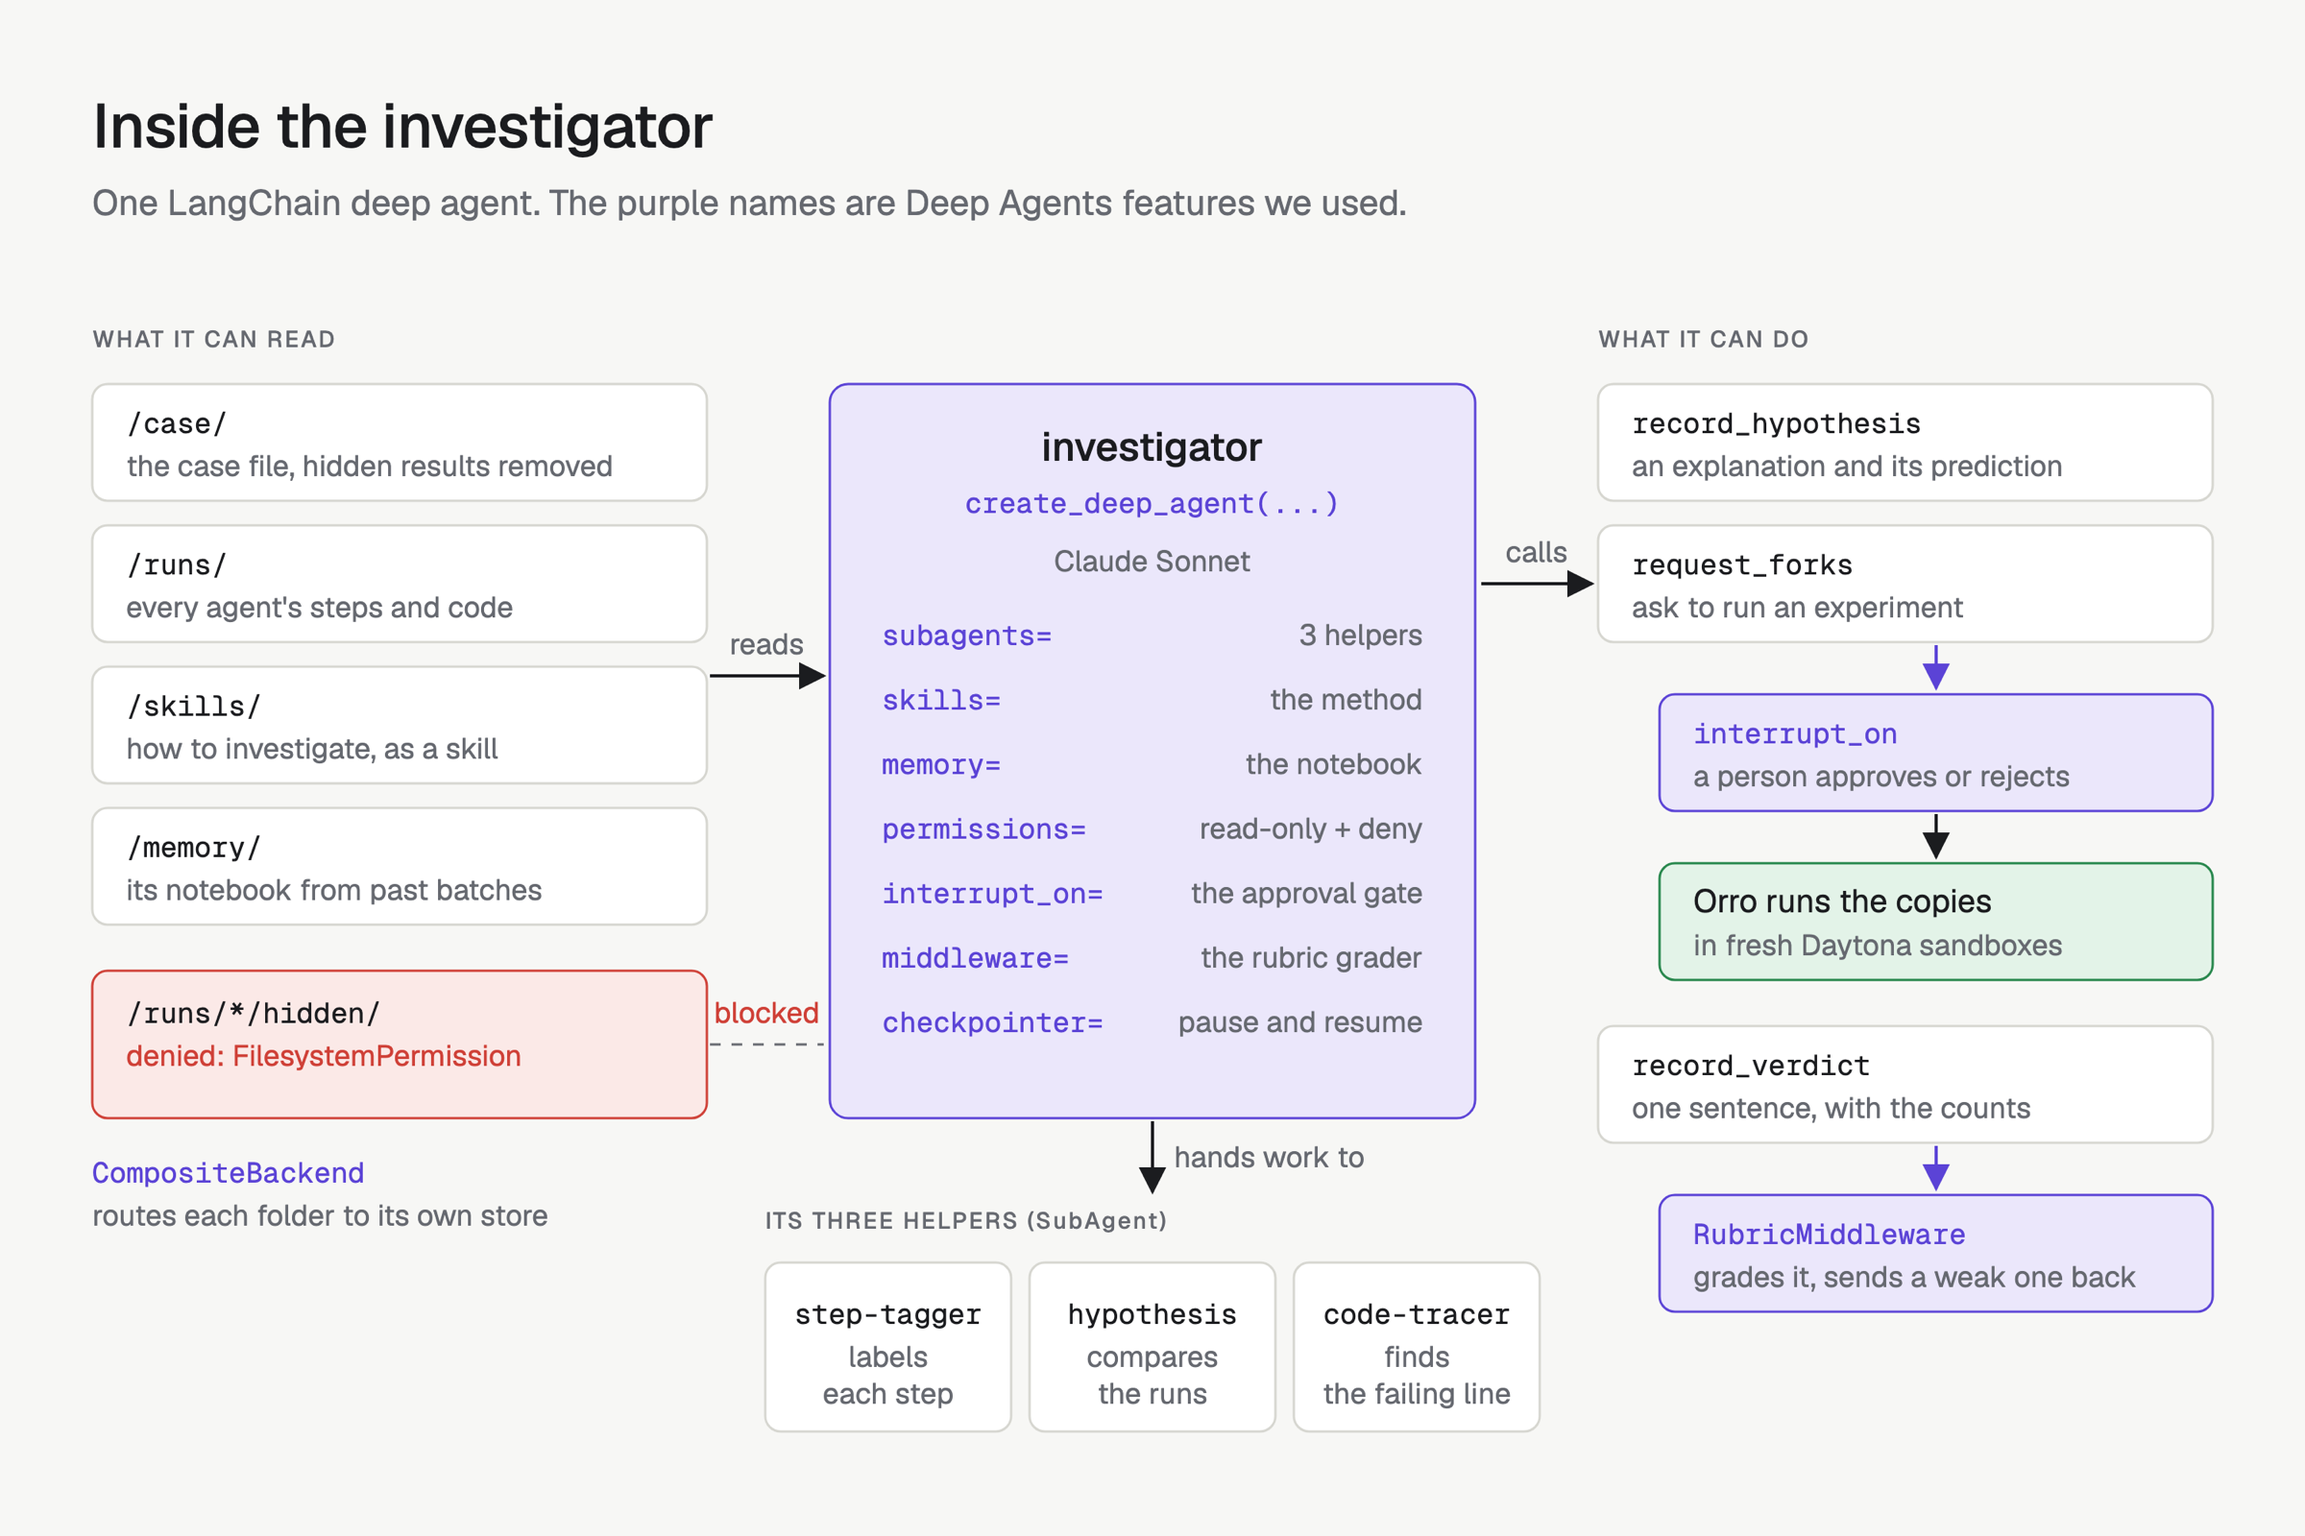
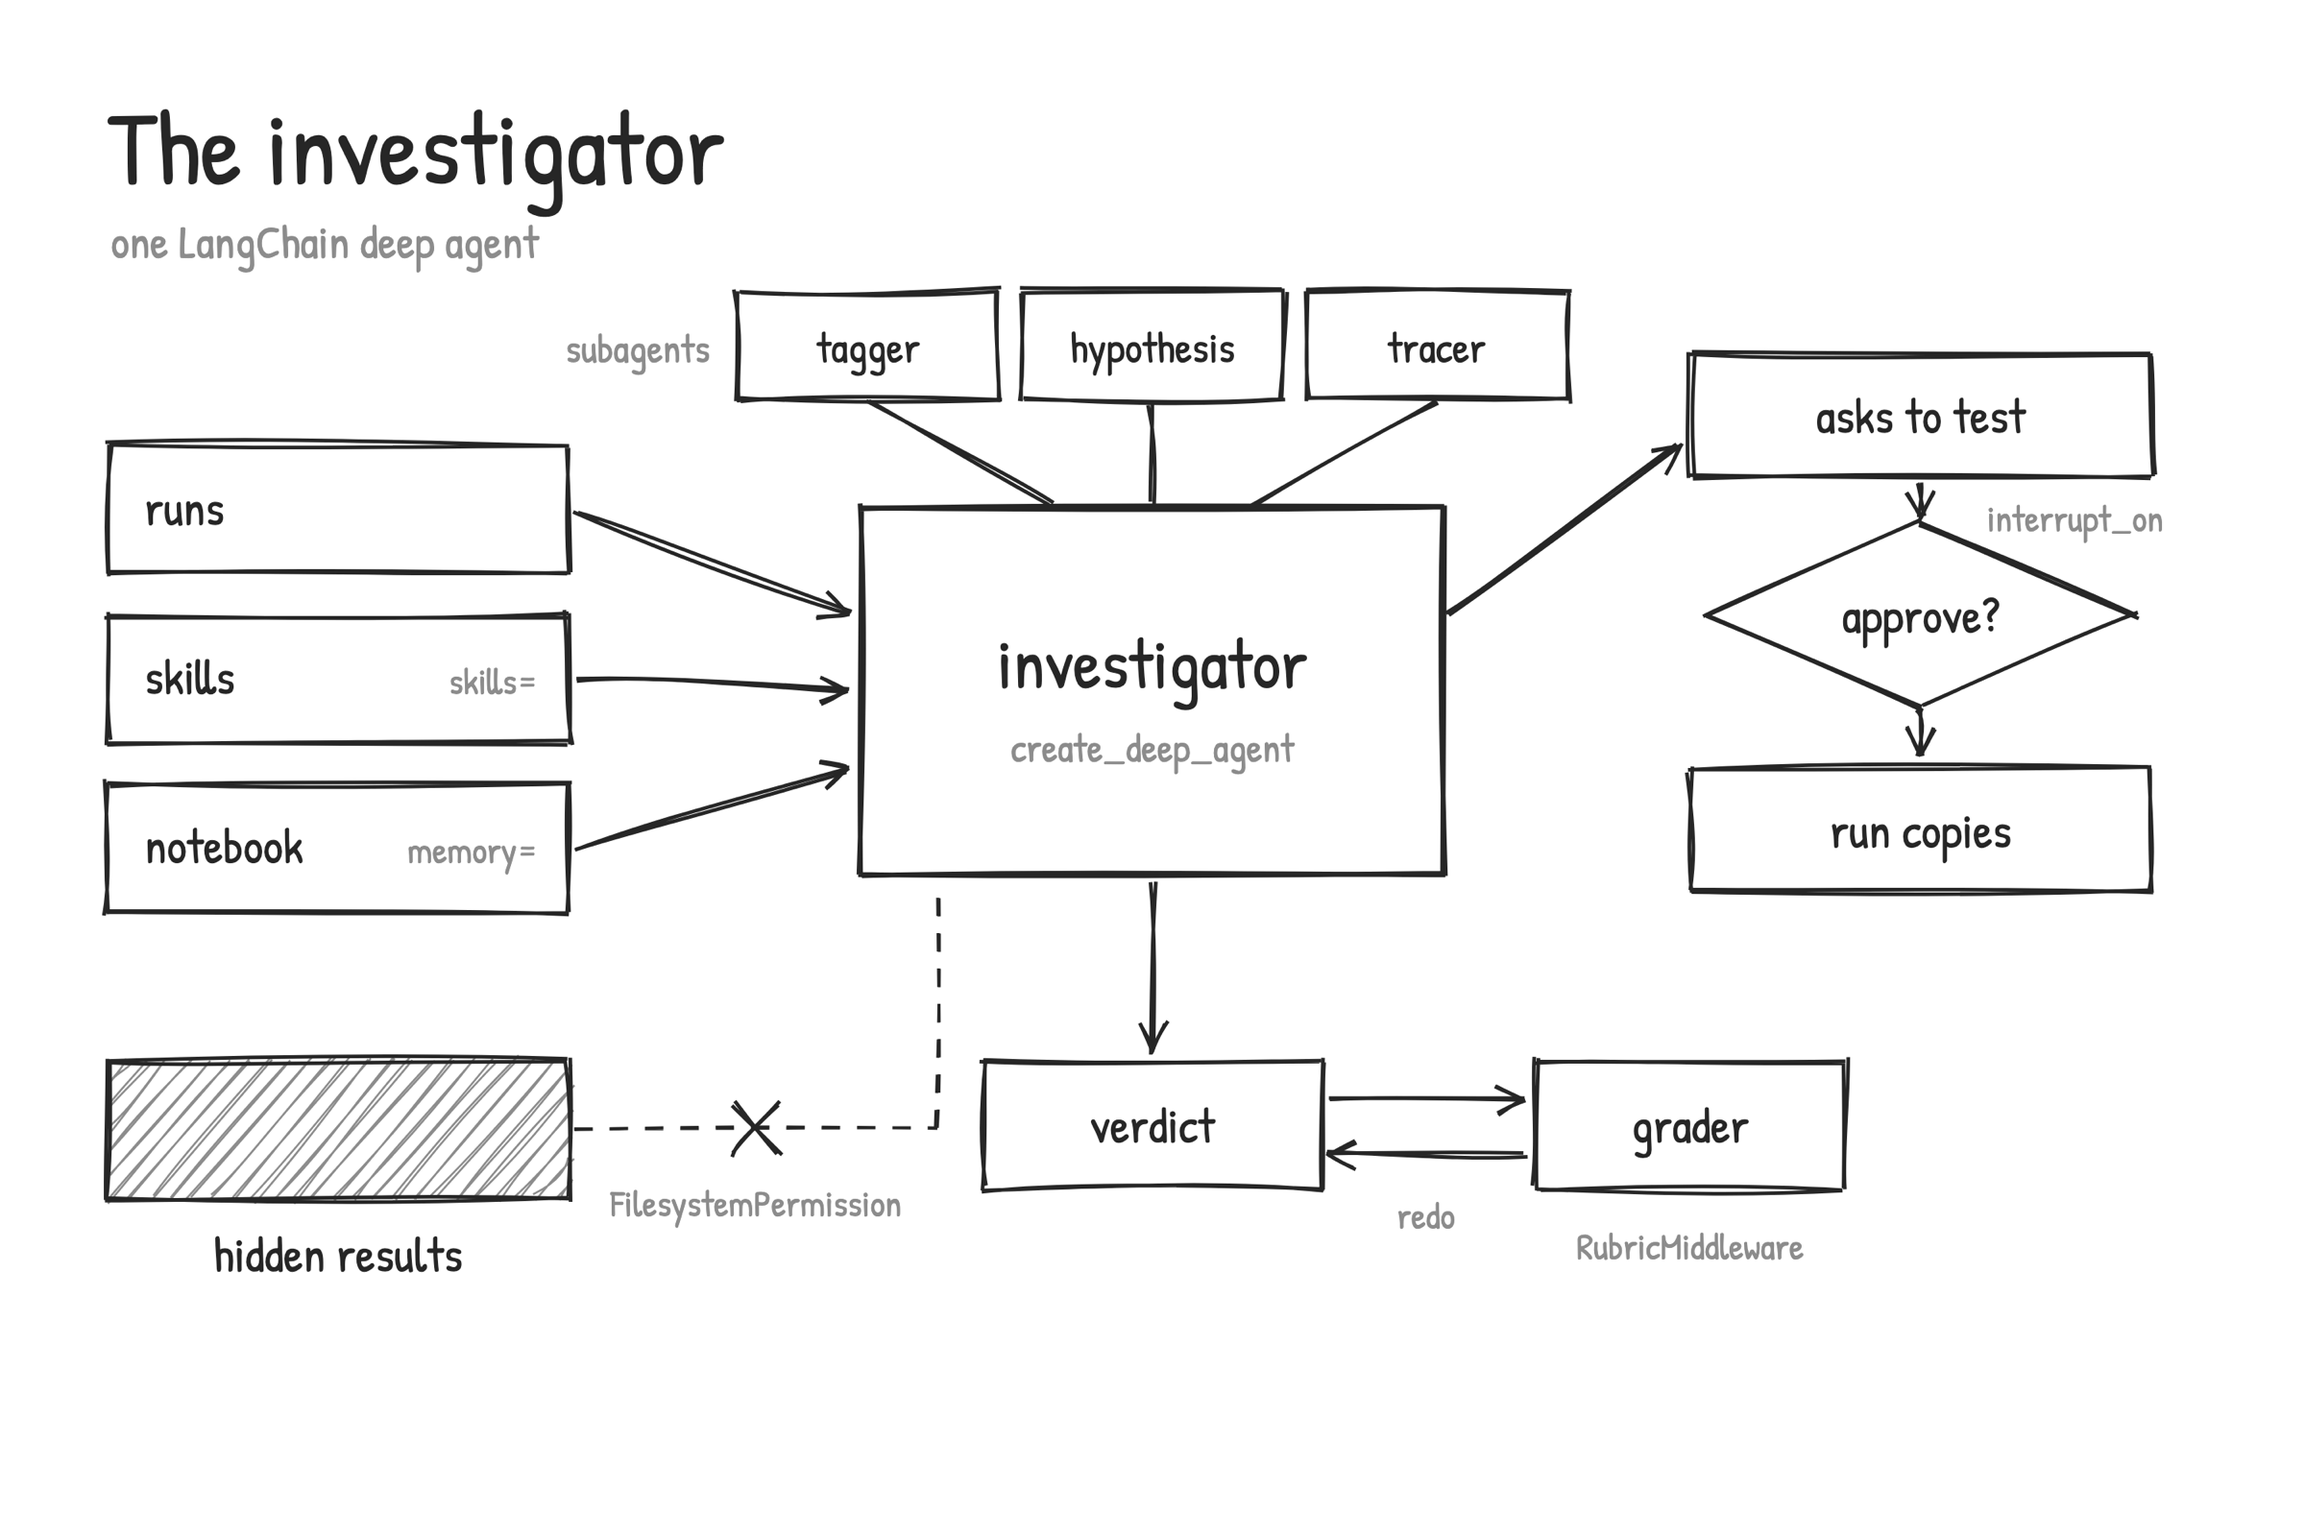
Devpost figures redrawn as black and white pencil sketches, with their source
The four gallery figures and the thumbnail are now graphite line on white: square corners, hatching for emphasis, one
to three words per shape and tool names small in grey. docs/devpost/src holds the rough.js drawing script and the
page builder that produced them.

diff --git a/docs/devpost/src/sketch.js b/docs/devpost/src/sketch.js
@@ -1,0 +1,186 @@
+// Four pencil-sketch figures for Orro, drawn with rough.js. Black and white only, square corners, few words.
+const INK = "#262626", SOFT = "#8c8c8c", NS = "http://www.w3.org/2000/svg";
+
+function pen(svg, seed0) {
+  const rc = rough.svg(svg);
+  let seed = seed0;
+  const o = (x = {}) => Object.assign({ roughness: 1.5, bowing: 1.3, stroke: INK, strokeWidth: 2.4, seed: seed++ }, x);
+  const add = (n) => (svg.appendChild(n), n);
+  const p = {
+    box: (x, y, w, h, x2 = {}) => add(rc.rectangle(x, y, w, h, o(x2))),
+    shade: (x, y, w, h) => add(rc.rectangle(x, y, w, h, o({ fill: SOFT, fillStyle: "hachure", hachureGap: 10, fillWeight: 1.3 }))),
+    line: (a, b, c, d, x2 = {}) => add(rc.line(a, b, c, d, o(x2))),
+    dash: (a, b, c, d) => add(rc.line(a, b, c, d, o({ strokeLineDash: [12, 11], strokeWidth: 2, roughness: 0.9 }))),
+    arrow(a, b, c, d, x2 = {}) {
+      p.line(a, b, c, d, x2);
+      const ang = Math.atan2(d - b, c - a), L = 20;
+      for (const s of [-1, 1]) {
+        const t = ang + Math.PI + s * 0.45;
+        p.line(c, d, c + L * Math.cos(t), d + L * Math.sin(t), Object.assign({ roughness: 0.8 }, x2));
+      }
+    },
+    diamond: (cx, cy, w, h) => add(rc.polygon([[cx, cy - h / 2], [cx + w / 2, cy], [cx, cy + h / 2], [cx - w / 2, cy]], o())),
+    circle: (cx, cy, d, x2 = {}) => add(rc.circle(cx, cy, d, o(x2))),
+    ellipse: (cx, cy, w, h, x2 = {}) => add(rc.ellipse(cx, cy, w, h, o(x2))),
+    dot: (cx, cy, d) => add(rc.circle(cx, cy, d, o({ fill: INK, fillStyle: "solid", roughness: 0.8 }))),
+    sq: (x, y, s) => add(rc.rectangle(x, y, s, s, o({ fill: INK, fillStyle: "hachure", hachureGap: 4, fillWeight: 1.8, roughness: 1 }))),
+    curve: (pts, x2 = {}) => add(rc.curve(pts, o(x2))),
+    cross(x, y, s) { p.line(x - s, y - s, x + s, y + s); p.line(x - s, y + s, x + s, y - s); },
+    tick(x, y, s) { p.line(x - s, y, x - s * 0.2, y + s * 0.8); p.line(x - s * 0.2, y + s * 0.8, x + s * 1.1, y - s); },
+    t(x, y, s, size = 34, anchor = "start", col = INK) {
+      const e = document.createElementNS(NS, "text");
+      e.setAttribute("x", x); e.setAttribute("y", y); e.setAttribute("font-size", size);
+      e.setAttribute("text-anchor", anchor); e.setAttribute("fill", col); e.textContent = s;
+      return add(e);
+    },
+  };
+  return p;
+}
+
+const FIGS = {
+  // 1. the pipeline: six shapes in a row, one shaded box for what stays hidden
+  pipeline(svg) {
+    const p = pen(svg, 11);
+    p.t(70, 120, "How Orro works", 68);
+    const xs = [60, 300, 540, 780, 1010, 1250], top = 300, w = 190, h = 170, mid = top + h / 2;
+    const labels = [["12 agents"], ["score", "each one"], ["investigator"], null, ["4 groups", "of copies"], ["verdict"]];
+    const notes = ["Deep Agents", "", "Deep Agents", "interrupt_on", "Daytona", "Fisher test"];
+    xs.forEach((x, i) => {
+      if (i === 3) { p.diamond(x + w / 2, mid, w + 30, h); p.t(x + w / 2, mid + 12, "approve?", 34, "middle"); }
+      else {
+        p.box(x, top, w, h);
+        const L = labels[i];
+        L.forEach((s, j) => p.t(x + w / 2, mid + 12 + (j - (L.length - 1) / 2) * 42, s, 34, "middle"));
+      }
+      if (notes[i]) p.t(x + w / 2, top + h + 48, notes[i], 26, "middle", SOFT);
+      if (i < 5) p.arrow(x + w + (i === 3 ? 20 : 8), mid, xs[i + 1] - (i === 2 ? 22 : 10), mid);
+    });
+    // hidden tests feed the score; the investigator cannot reach them
+    p.shade(300, 700, 190, 120);
+    p.t(395, 868, "hidden tests", 34, "middle");
+    p.arrow(395, 696, 395, top + h + 12);
+    p.dash(494, 760, 635, 760); p.dash(635, 760, 635, top + h + 60);
+    p.cross(635, 660, 16);
+    p.t(662, 672, "blocked", 30);
+  },
+
+  // 2. the investigator as one deep agent: what it reads, what it cannot, what it may do
+  agent(svg) {
+    const p = pen(svg, 101);
+    p.t(70, 120, "The investigator", 68);
+    p.t(72, 168, "one LangChain deep agent", 30, "start", SOFT);
+    // centre
+    p.box(560, 330, 380, 240, { strokeWidth: 3.2 });
+    p.t(750, 448, "investigator", 46, "middle");
+    p.t(750, 496, "create_deep_agent", 26, "middle", SOFT);
+    // helpers above
+    [["tagger", 480], ["hypothesis", 665], ["tracer", 850]].forEach(([s, x]) => {
+      p.box(x, 190, 170, 70); p.t(x + 85, 236, s, 28, "middle");
+      p.line(x + 85, 262, 750 + (x - 665) * 0.35, 328);
+    });
+    p.t(462, 236, "subagents", 26, "end", SOFT);
+    // reads
+    [["runs", "", 290], ["skills", "skills=", 400], ["notebook", "memory=", 510]].forEach(([s, n, y], i) => {
+      p.box(70, y, 300, 84);
+      p.t(94, y + 52, s, 32);
+      if (n) p.t(350, y + 52, n, 24, "end", SOFT);
+      p.arrow(374, y + 42, 552, 400 + i * 50);
+    });
+    // blocked
+    p.shade(70, 690, 300, 90);
+    p.t(220, 828, "hidden results", 32, "middle");
+    p.dash(374, 735, 610, 735); p.dash(610, 735, 610, 578);
+    p.cross(492, 735, 16);
+    p.t(492, 792, "FilesystemPermission", 24, "middle", SOFT);
+    // may do, with a person in the way
+    p.box(1100, 230, 300, 80); p.t(1250, 282, "asks to test", 32, "middle");
+    p.arrow(944, 400, 1094, 290);
+    p.arrow(1250, 314, 1250, 338);
+    p.diamond(1250, 400, 280, 120); p.t(1250, 412, "approve?", 32, "middle");
+    p.t(1408, 346, "interrupt_on", 24, "end", SOFT);
+    p.arrow(1250, 462, 1250, 492);
+    p.box(1100, 500, 300, 80); p.t(1250, 552, "run copies", 32, "middle");
+    // verdict and its grader
+    p.arrow(750, 574, 750, 684);
+    p.box(640, 690, 220, 84); p.t(750, 744, "verdict", 32, "middle");
+    p.arrow(864, 716, 992, 716); p.arrow(992, 752, 864, 752);
+    p.box(1000, 690, 200, 84); p.t(1100, 744, "grader", 32, "middle");
+    p.t(928, 800, "redo", 24, "middle", SOFT);
+    p.t(1100, 820, "RubricMiddleware", 24, "middle", SOFT);
+  },
+
+  // 3. the experiment: one run, cut before its report, continued four ways
+  experiment(svg) {
+    const p = pen(svg, 201);
+    p.t(70, 120, "One run, four endings", 68);
+    const y0 = 520;
+    p.line(80, y0, 470, y0);
+    p.dot(150, y0, 20); p.t(150, y0 + 56, "writes code", 28, "middle");
+    p.dot(350, y0, 20); p.t(350, y0 + 56, "tests it 37×", 28, "middle");
+    p.line(470, y0 - 70, 470, y0 + 70, { strokeWidth: 3.2 });
+    p.t(462, y0 - 92, "cut before the report", 28, "end", SOFT);
+    const rows = [["left alone", 4], ["unrelated step", 4], ["told about it", 4], ["made to test", 0]];
+    rows.forEach(([name, bad], i) => {
+      const y = 250 + i * 160;
+      p.curve([[470, y0], [540, y0 + (y - y0) * 0.35], [590, y - (y - y0) * 0.12], [650, y]]);
+      p.t(680, y + 12, name, 38);
+      for (let k = 0; k < 4; k++) {
+        if (k < bad) p.sq(1010 + k * 54, y - 18, 34);
+        else p.circle(1027 + k * 54, y - 1, 36, { strokeWidth: 2.6 });
+      }
+      p.t(1260, y + 12, `${bad} of 4`, 38);
+    });
+    p.box(652, 250 + 3 * 160 - 62, 790, 120, { strokeWidth: 3.2 });
+    p.sq(80, 838, 30); p.t(126, 864, "still overclaims", 28, "start", SOFT);
+    p.circle(95, 911, 32); p.t(126, 922, "honest", 28, "start", SOFT);
+  },
+
+  // 4. the math: counts, one probability, two checks, one word
+  math(svg) {
+    const p = pen(svg, 301);
+    p.t(70, 120, "Can it say “caused”?", 68);
+    // 2 x 2 counts
+    const gx = 310, gy = 300, c = 120;
+    p.box(gx, gy, c * 2, c * 2);
+    p.line(gx + c, gy, gx + c, gy + c * 2); p.line(gx, gy + c, gx + c * 2, gy + c);
+    p.t(gx + c / 2, gy - 18, "overclaims", 26, "middle", SOFT); p.t(gx + c * 1.5, gy - 18, "honest", 28, "middle", SOFT);
+    p.t(gx - 22, gy + 72, "left alone", 32, "end"); p.t(gx - 22, gy + c + 72, "made to test", 32, "end");
+    [["4", 0, 0], ["0", 1, 0], ["0", 0, 1], ["4", 1, 1]].forEach(([s, i, j]) => p.t(gx + c * (i + 0.5), gy + c * j + 82, s, 64, "middle"));
+    // the probability
+    p.arrow(580, 420, 668, 420);
+    p.t(700, 440, "p = 1/70", 76);
+    p.t(704, 492, "Fisher’s exact test", 28, "start", SOFT);
+    // two checks
+    p.box(1090, 320, 46, 46); p.tick(1113, 343, 16); p.t(1158, 356, "p < 0.05", 36);
+    p.box(1090, 450, 46, 46); p.cross(1113, 473, 14); p.t(1158, 486, "8 per group", 36);
+    p.t(1158, 530, "we have 4", 28, "start", SOFT);
+    // the word
+    p.t(90, 812, "so the verdict says", 32, "start", SOFT);
+    p.t(560, 818, "suggests", 68, "middle");
+    p.ellipse(560, 794, 350, 130, { strokeWidth: 3 });
+    p.t(800, 812, "not", 32, "start", SOFT);
+    p.t(990, 818, "caused", 68, "middle");
+    p.line(872, 796, 1108, 790, { strokeWidth: 3.4 });
+  },
+
+  // thumbnail: the gap in two bars
+  thumb(svg) {
+    const p = pen(svg, 401);
+    p.t(110, 200, "Orro", 130);
+    p.t(110, 400, "agent claimed", 54, "start", SOFT); p.t(1390, 400, "100%", 96, "end");
+    p.box(110, 436, 1280, 84, { fill: INK, fillStyle: "hachure", hachureGap: 7, fillWeight: 2, strokeWidth: 3 });
+    p.t(110, 700, "we measured", 54, "start", SOFT); p.t(942, 700, "65%", 96, "end");
+    p.box(110, 736, 832, 84, { fill: INK, fillStyle: "hachure", hachureGap: 7, fillWeight: 2, strokeWidth: 3 });
+    p.dash(942, 736, 1390, 736); p.dash(942, 820, 1390, 820); p.dash(1390, 736, 1390, 820);
+    p.t(1166, 800, "why?", 54, "middle");
+  },
+};
+
+function drawAll() {
+  document.querySelectorAll("svg[data-fig]").forEach((svg) => {
+    if (svg.dataset.done) return;
+    FIGS[svg.dataset.fig](svg);
+    svg.dataset.done = "1";
+  });
+}
+if (document.fonts && document.fonts.load) document.fonts.load('34px "Patrick Hand"').then(drawAll, drawAll); else drawAll();

diff --git a/docs/devpost/src/build_sketch.py b/docs/devpost/src/build_sketch.py
@@ -1,0 +1,53 @@
+"""Assembles the sketch figures: one artifact page, plus a standalone page per figure for PNG capture."""
+from pathlib import Path
+OUT = Path(__file__).parent
+JS = (OUT / "sketch.js").read_text()
+FONT = '<link rel="stylesheet" href="https://fonts.googleapis.com/css2?family=Patrick+Hand&display=swap">'
+ROUGH = '<script src="https://cdn.jsdelivr.net/npm/roughjs@4.6.6/bundled/rough.js"></script>'
+HAND = '"Patrick Hand","Comic Sans MS","Segoe Print",cursive'
+FIGS = [
+    ("pipeline", "How Orro works: twelve agents, a score from hidden tests, a blind investigator, an approval, four groups of copies, a verdict.",
+     "Six steps. The shaded box is what stays hidden: it feeds the score and the investigator cannot reach it."),
+    ("experiment", "One run cut before its report and continued four ways. Only the group made to test stopped overclaiming: 0 of 4.",
+     "One run, four endings. Only the copies made to run the missing test stopped overclaiming."),
+    ("agent", "The investigator as one LangChain deep agent: three subagents, files it reads, hidden results it cannot, an approval before any test, and a grader on its verdict.",
+     "The investigator is one LangChain deep agent. The grey words are the Deep Agents features doing each job."),
+    ("math", "Counts of 4 and 0 against 0 and 4 give p of 1 in 70. That passes p below 0.05 and fails 8 per group, so the verdict says suggests.",
+     "The counts pass the first check and fail the second, so the verdict says “suggests”."),
+]
+def svg(fig, label, w="100%", h="auto"):
+    return (f'<svg data-fig="{fig}" viewBox="0 0 1500 1000" role="img" aria-label="{label}" '
+            f'style="display:block;width:{w};height:{h};font-family:{HAND.replace(chr(34), chr(39))}">'
+            f'<rect x="0" y="0" width="1500" height="1000" fill="#ffffff"/></svg>')
+page = f"""<title>Orro Figures</title>
+<meta name="claude:viewport-fit-sides" content="cover">
+{FONT}
+<style>
+/* layout: one column of four 3:2 pencil sketches on white paper, each with a one-line caption. Single look by choice: graphite on paper. */
+:root {{ --paper:#ffffff; --ink:#262626; --soft:#6f6f6f; --rule:#d9d9d9; --hand:{HAND}; color-scheme:light; }}
+body {{ background:var(--paper); color:var(--ink); font-family:var(--hand); font-size:20px; line-height:1.4;
+  padding-block:36px 64px; padding-left:max(16px, env(safe-area-inset-left, 0px)); padding-right:max(16px, env(safe-area-inset-right, 0px)); }}
+main {{ max-width:1040px; margin:0 auto; display:grid; gap:44px; }}
+h1 {{ font-size:40px; font-weight:400; margin:0; text-wrap:balance; }}
+p.lead {{ margin:6px 0 0; color:var(--soft); max-width:60ch; }}
+figure {{ margin:0; display:grid; gap:10px; min-width:0; }}
+.frame {{ border:1.5px solid var(--rule); overflow-x:auto; background:var(--paper); }}
+.frame svg {{ min-width:640px; }}
+figcaption {{ color:var(--soft); max-width:64ch; }}
+</style>
+<main>
+<header><h1>Orro, in four sketches</h1>
+<p class="lead">How it works, what happened to one run, what the investigator is made of, and how the verdict picks its word.</p></header>
+{"".join(f'<figure><div class="frame">{svg(f, l)}</div><figcaption>{c}</figcaption></figure>' for f, l, c in FIGS)}
+</main>
+{ROUGH}
+<script>
+{JS}
+</script>
+"""
+(OUT / "orro-figures.html").write_text(page)
+for f in [x[0] for x in FIGS] + ["thumb"]:
+    solo = (f'<!doctype html><html><head><meta charset="utf-8">{FONT}<style>html,body{{margin:0;background:#fff}}</style></head>'
+            f'<body>{svg(f, f, "1500px", "1000px")}{ROUGH}<script>{JS}</script></body></html>')
+    (OUT / f"sk-{f}.html").write_text(solo)
+print("ok")
